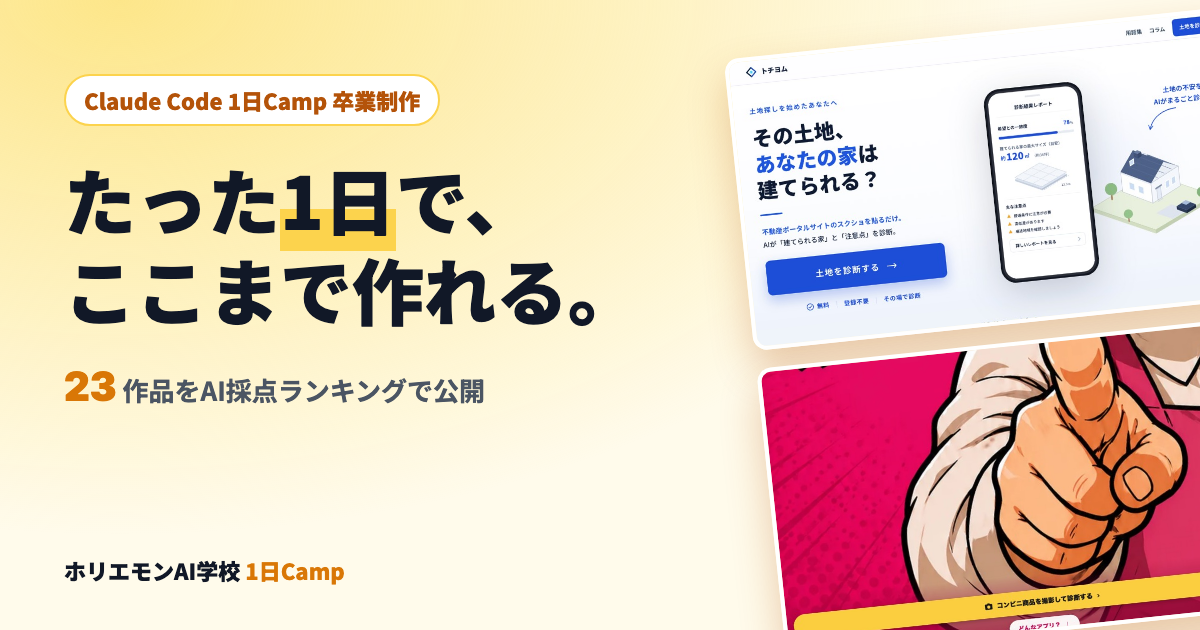
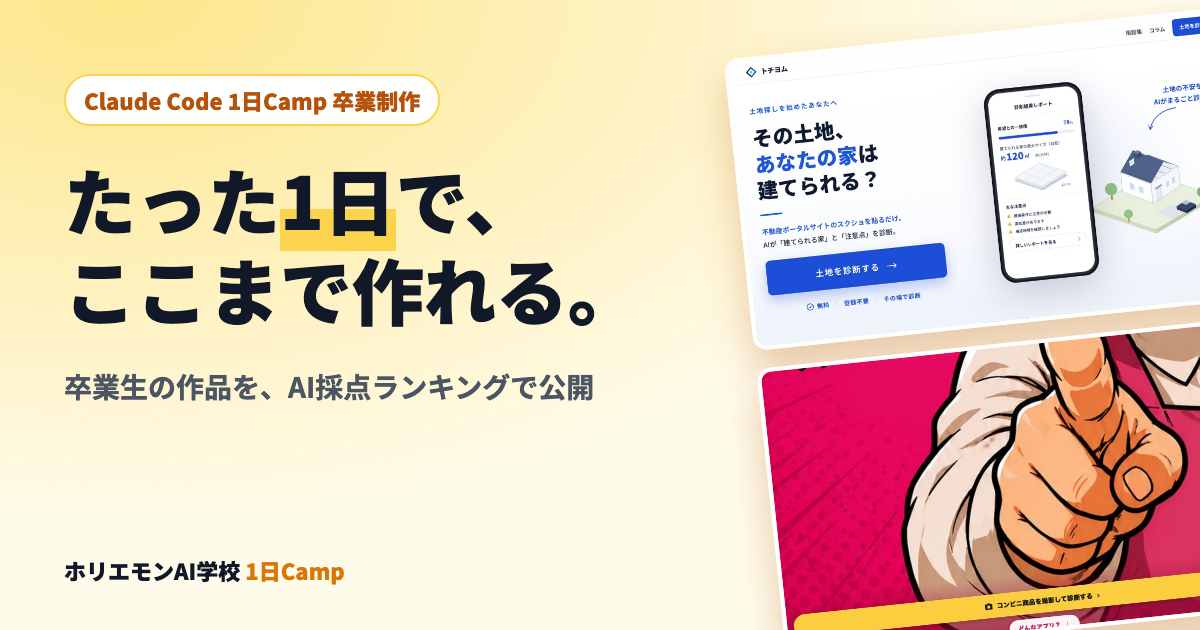
camp-showcase: TOKYO 2036・お墓見積もりシミュレーターを追加

Changed region(s): [[0.0308, 0.573, 0.4933, 0.6635]]

diff --git a/camp-showcase/index.html b/camp-showcase/index.html
@@ -10,13 +10,13 @@
   })(window,document,'script','dataLayer','GTM-K27M7VKP');</script>
   <!-- End Google Tag Manager -->
 <meta name="viewport" content="width=device-width,initial-scale=1.0"/>
-<title>Claude Code 1日Camp 卒業制作ギャラリー｜1日で作ったアプリ・HP 23作品｜ホリエモンAI学校</title>
-<meta name="description" content="ホリエモンAI学校のClaude Code研修「1日Camp」卒業生が、たった1日で作って公開したWebアプリ・ホームページ23作品をAI採点ランキングで紹介。非エンジニア向けAIスクールで、実際に何が作れるようになるのかが分かります。"/>
+<title>Claude Code 1日Camp 卒業制作ギャラリー｜1日で作ったアプリ・HP作品集｜ホリエモンAI学校</title>
+<meta name="description" content="ホリエモンAI学校のClaude Code研修「1日Camp」卒業生が、たった1日で作って公開したWebアプリ・ホームページをAI採点ランキングで紹介。非エンジニア向けAIスクールで、実際に何が作れるようになるのかが分かります。"/>
 <link rel="canonical" href="https://p.horiemon.ai/camp-showcase/"/>
 <meta name="robots" content="index,follow,max-image-preview:large"/>
 <meta property="og:site_name" content="ホリエモンAI学校"/>
 <meta property="og:title" content="たった1日で、ここまで作れる。｜Claude Code 1日Camp 卒業制作ギャラリー"/>
-<meta property="og:description" content="Claude Code研修「1日Camp」の卒業生が1日で作ったWebアプリ・ホームページ23作品を、AI採点ランキングで公開。"/>
+<meta property="og:description" content="Claude Code研修「1日Camp」の卒業生が1日で作ったWebアプリ・ホームページを、AI採点ランキングで公開。"/>
 <meta property="og:type" content="website"/>
 <meta property="og:locale" content="ja_JP"/>
 <meta property="og:image" content="https://p.horiemon.ai/camp-showcase/ogp.png"/>
@@ -25,7 +25,7 @@
 <meta property="og:url" content="https://p.horiemon.ai/camp-showcase/"/>
 <meta name="twitter:card" content="summary_large_image"/>
 <meta name="twitter:title" content="たった1日で、ここまで作れる。｜Claude Code 1日Camp 卒業制作ギャラリー"/>
-<meta name="twitter:description" content="Claude Code研修「1日Camp」卒業生の作品23本をAI採点ランキングで公開。"/>
+<meta name="twitter:description" content="Claude Code研修「1日Camp」卒業生の作品をAI採点ランキングで公開。"/>
 <meta name="twitter:image" content="https://p.horiemon.ai/camp-showcase/ogp.png"/>
 <script type="application/ld+json">
 {"@context":"https://schema.org","@graph":[
@@ -277,7 +277,7 @@ footer{padding:28px 0;text-align:center;font-size:12px;color:var(--muted)}
 
 <footer><a href="https://horiemon.ai/">ホリエモンAI学校</a> ／ <a href="/camp/">1日Camp</a><br>© ホリエモンAI学校株式会社</footer>
 
-<script src="works.js?v=5"></script>
+<script src="works.js?v=6"></script>
 <script>
 (function(){
   const esc = s => String(s ?? '').replace(/[&<>"']/g, c => ({'&':'&amp;','<':'&lt;','>':'&gt;','"':'&quot;',"'":'&#39;'}[c]));

diff --git a/camp-showcase/works.js b/camp-showcase/works.js
@@ -35,6 +35,14 @@ const WORKS = [
     desc: "東京都の銭湯417軒のカード取得・お遍路スタンプをエリア別に管理するコレクションアプリ。",
     score: { 完成度: 8, 実用性: 8, 独創性: 9 },
     comment: "400軒超のデータと進捗表示で「制覇欲」をくすぐる。好きなものを突き詰めるとここまで作れる、という最高の見本。" },
+  { id: "tokyo2036", points: 81, camp: "1日Camp", title: "TOKYO 2036 ─ 10年後の地価予測マップ", url: "https://tokyo-2036.vercel.app/", type: "app",
+    desc: "人口推計と地価公示データから、東京23区の10年後の地価将来性をスコア化して3D地図で表示。",
+    score: { 完成度: 8, 実用性: 7, 独創性: 9 },
+    comment: "公的データを掛け合わせて「10年後」を可視化する発想と、区ごとに立ち上がる3D表現のインパクトは随一。データを“見せる”力が光る一作。" },
+  { id: "haka", points: 80, camp: "1日Camp", title: "お墓のかんたん見積もりシミュレーター", url: "https://haka-mitsumori.vercel.app/", type: "app",
+    desc: "7つの質問に答えるだけで、お墓の概算費用と内訳を1分で試算できるシミュレーター。",
+    score: { 完成度: 8, 実用性: 9, 独創性: 6 },
+    comment: "価格が見えにくい業界で「まず概算が分かる」は強力な集客導線。“わからないのでおまかせ”を全問に用意した、利用者目線の設計が秀逸。" },
   { id: "tanika", points: 82, camp: "8/8 オンライン", title: "タニカ建築 コーポレートサイト", url: "https://tanika-architecture.vercel.app/", type: "site", award: "ベストデザイン賞",
     desc: "広島・福山の建築設計事務所のサイト。施工写真を活かした上質なデザイン。",
     score: { 完成度: 9, 実用性: 8, 独創性: 7 },
